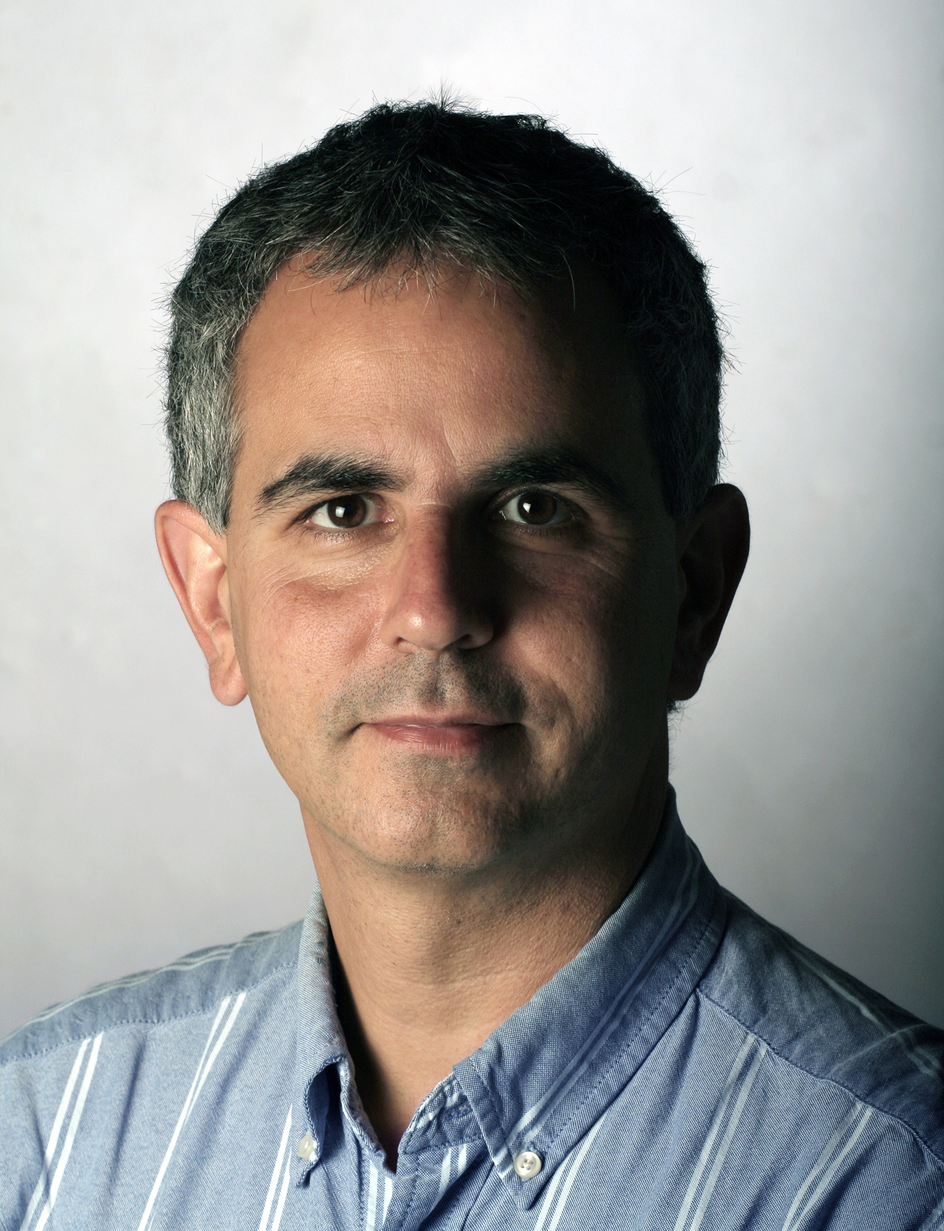
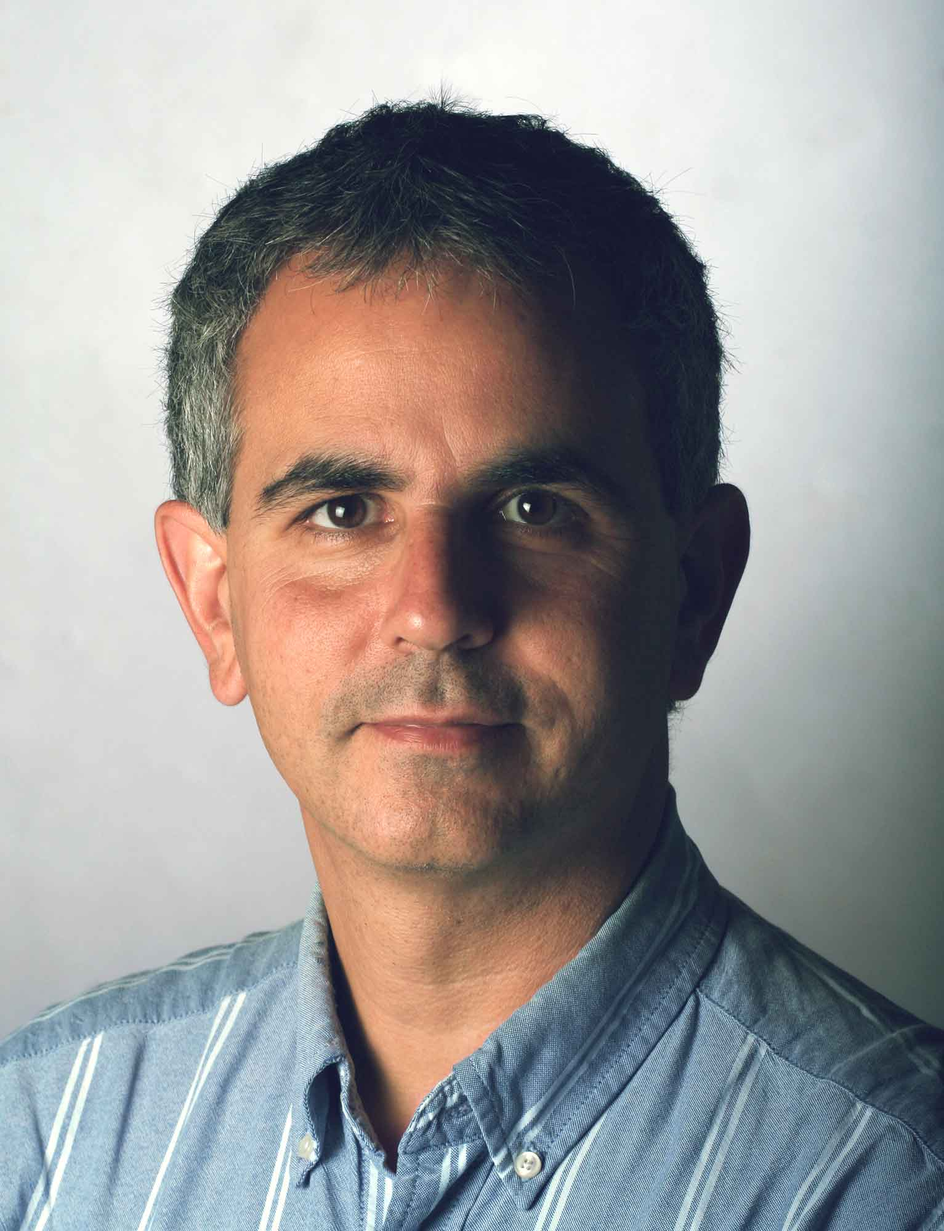
images adjusted

diff --git a/about/index.html b/about/index.html
@@ -116,7 +116,7 @@ title: About
     </div>
     <div class="row">
       <div class="small-12 medium-3 large-4 columns">
-        <img class="thumbnail" src="../assets/img/collins-image-1.png" />
+        <img class="thumbnail" src="../assets/img/collins-mug.jpg" />
       </div>
       <div class="small-12 medium-9 large-8 columns">
         <h3>Michael Collins</h3>

diff --git a/index.html b/index.html
@@ -129,7 +129,7 @@ faculty_heading: Our Experts. Your Faculty.
       <h3>Will Yurman</h3>
     </div>
     <div class="small-12 medium-4 large-4 columns">
-      <img class="thumbnail" src="assets/img/collins-image-1.png" />
+      <img class="thumbnail" src="assets/img/collins-mug.jpg" />
       <h3>Michael Collins</h3>
     </div>
   </div>
